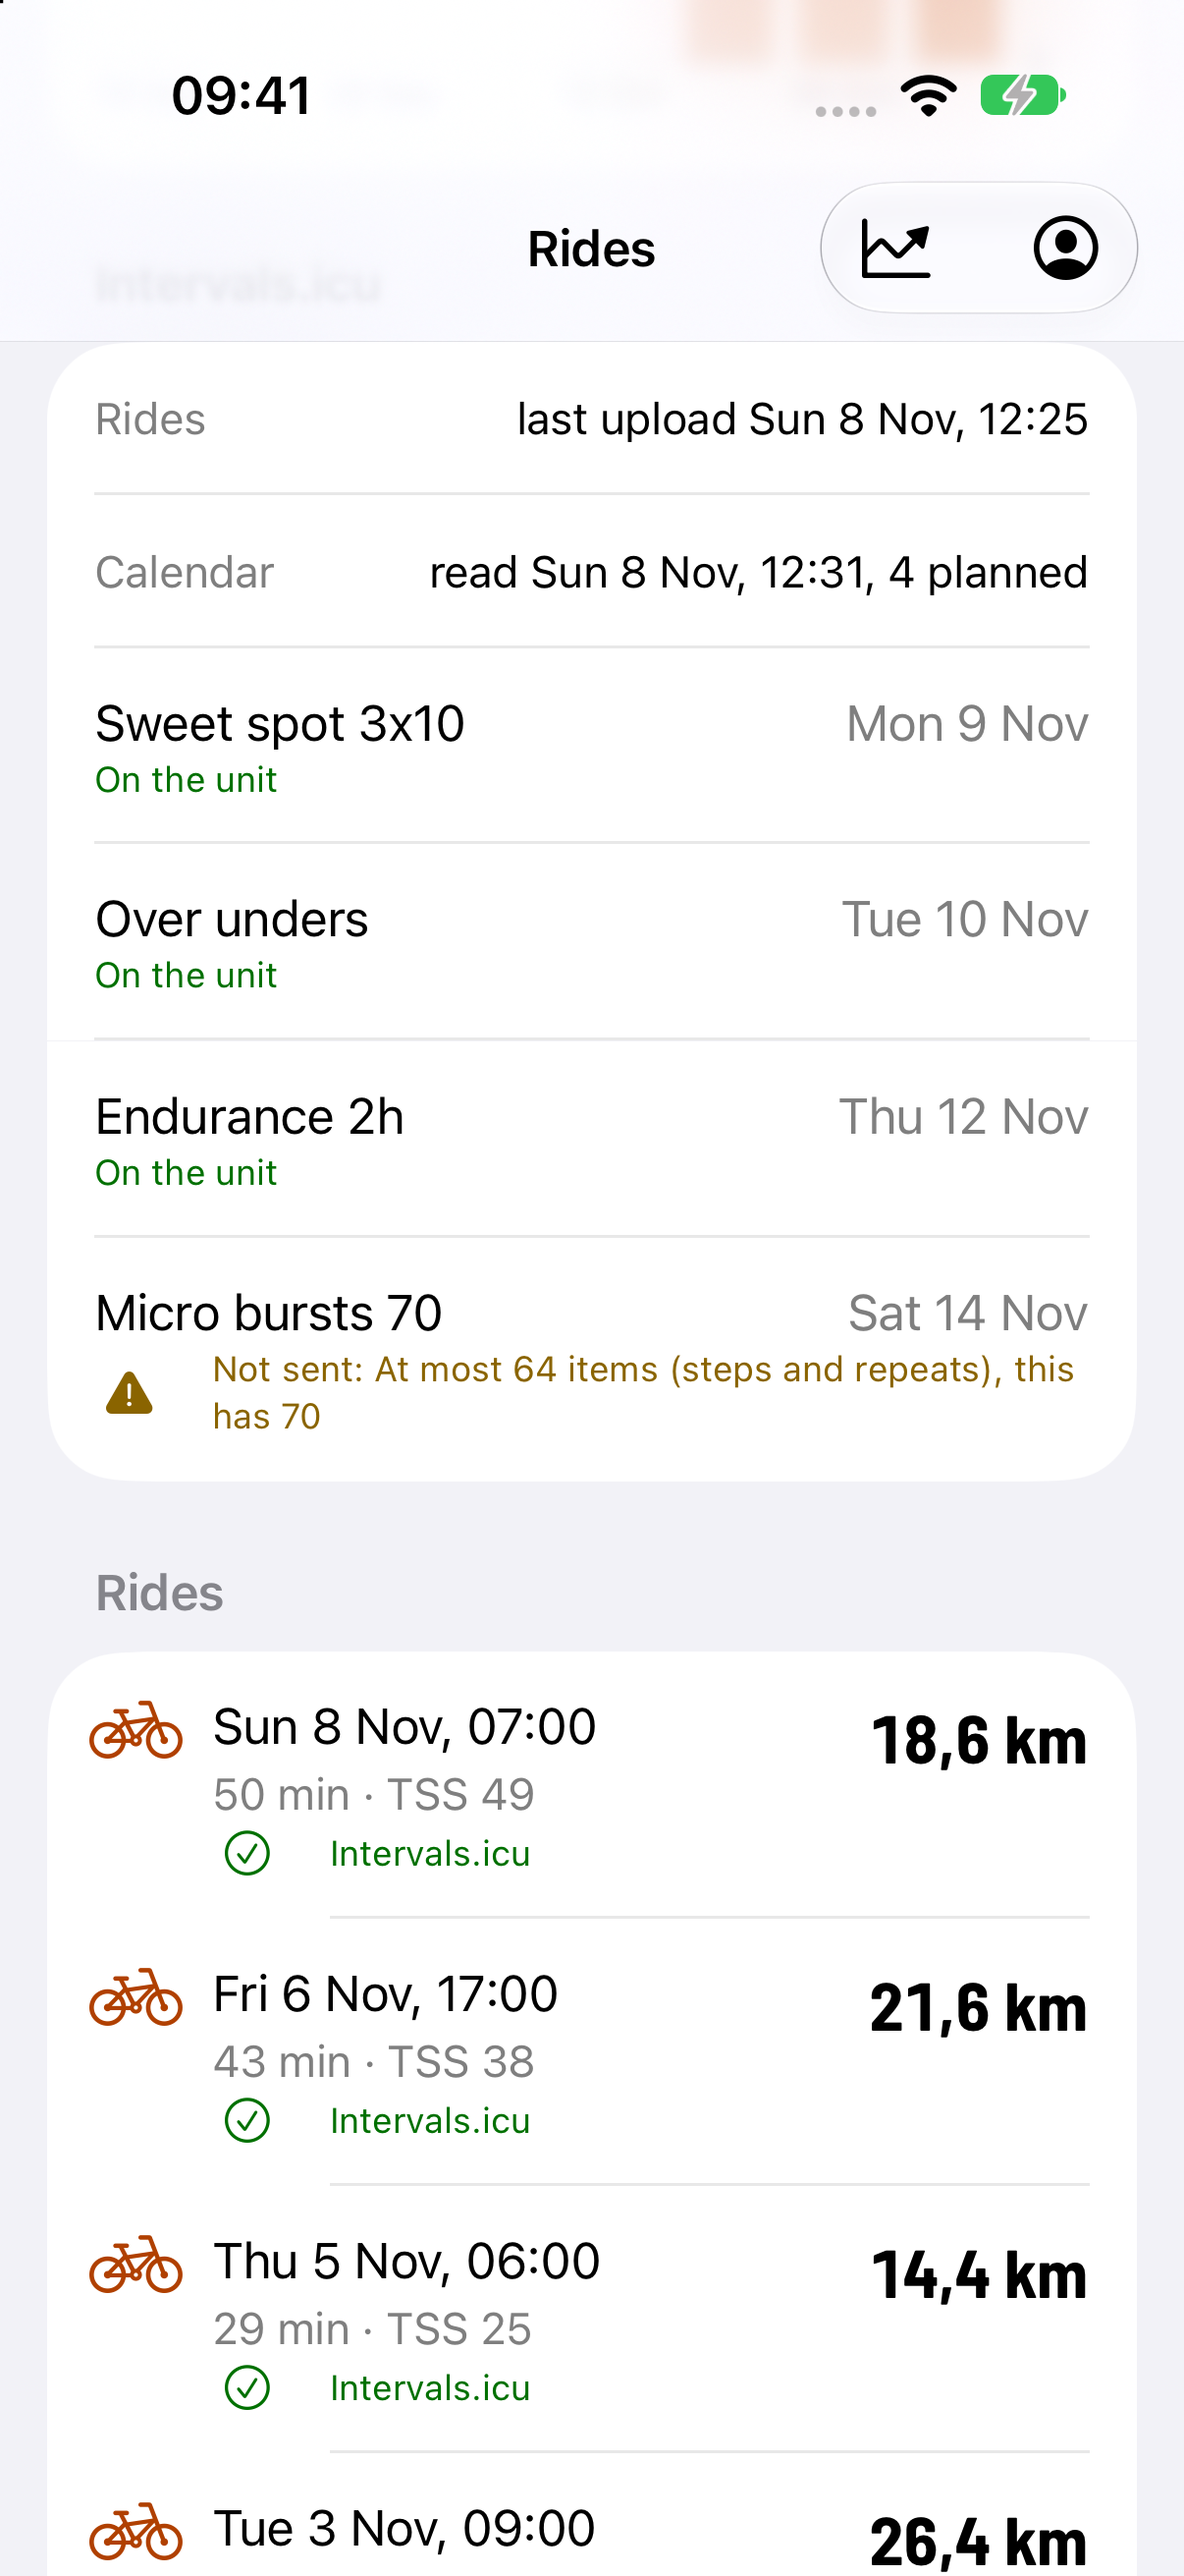
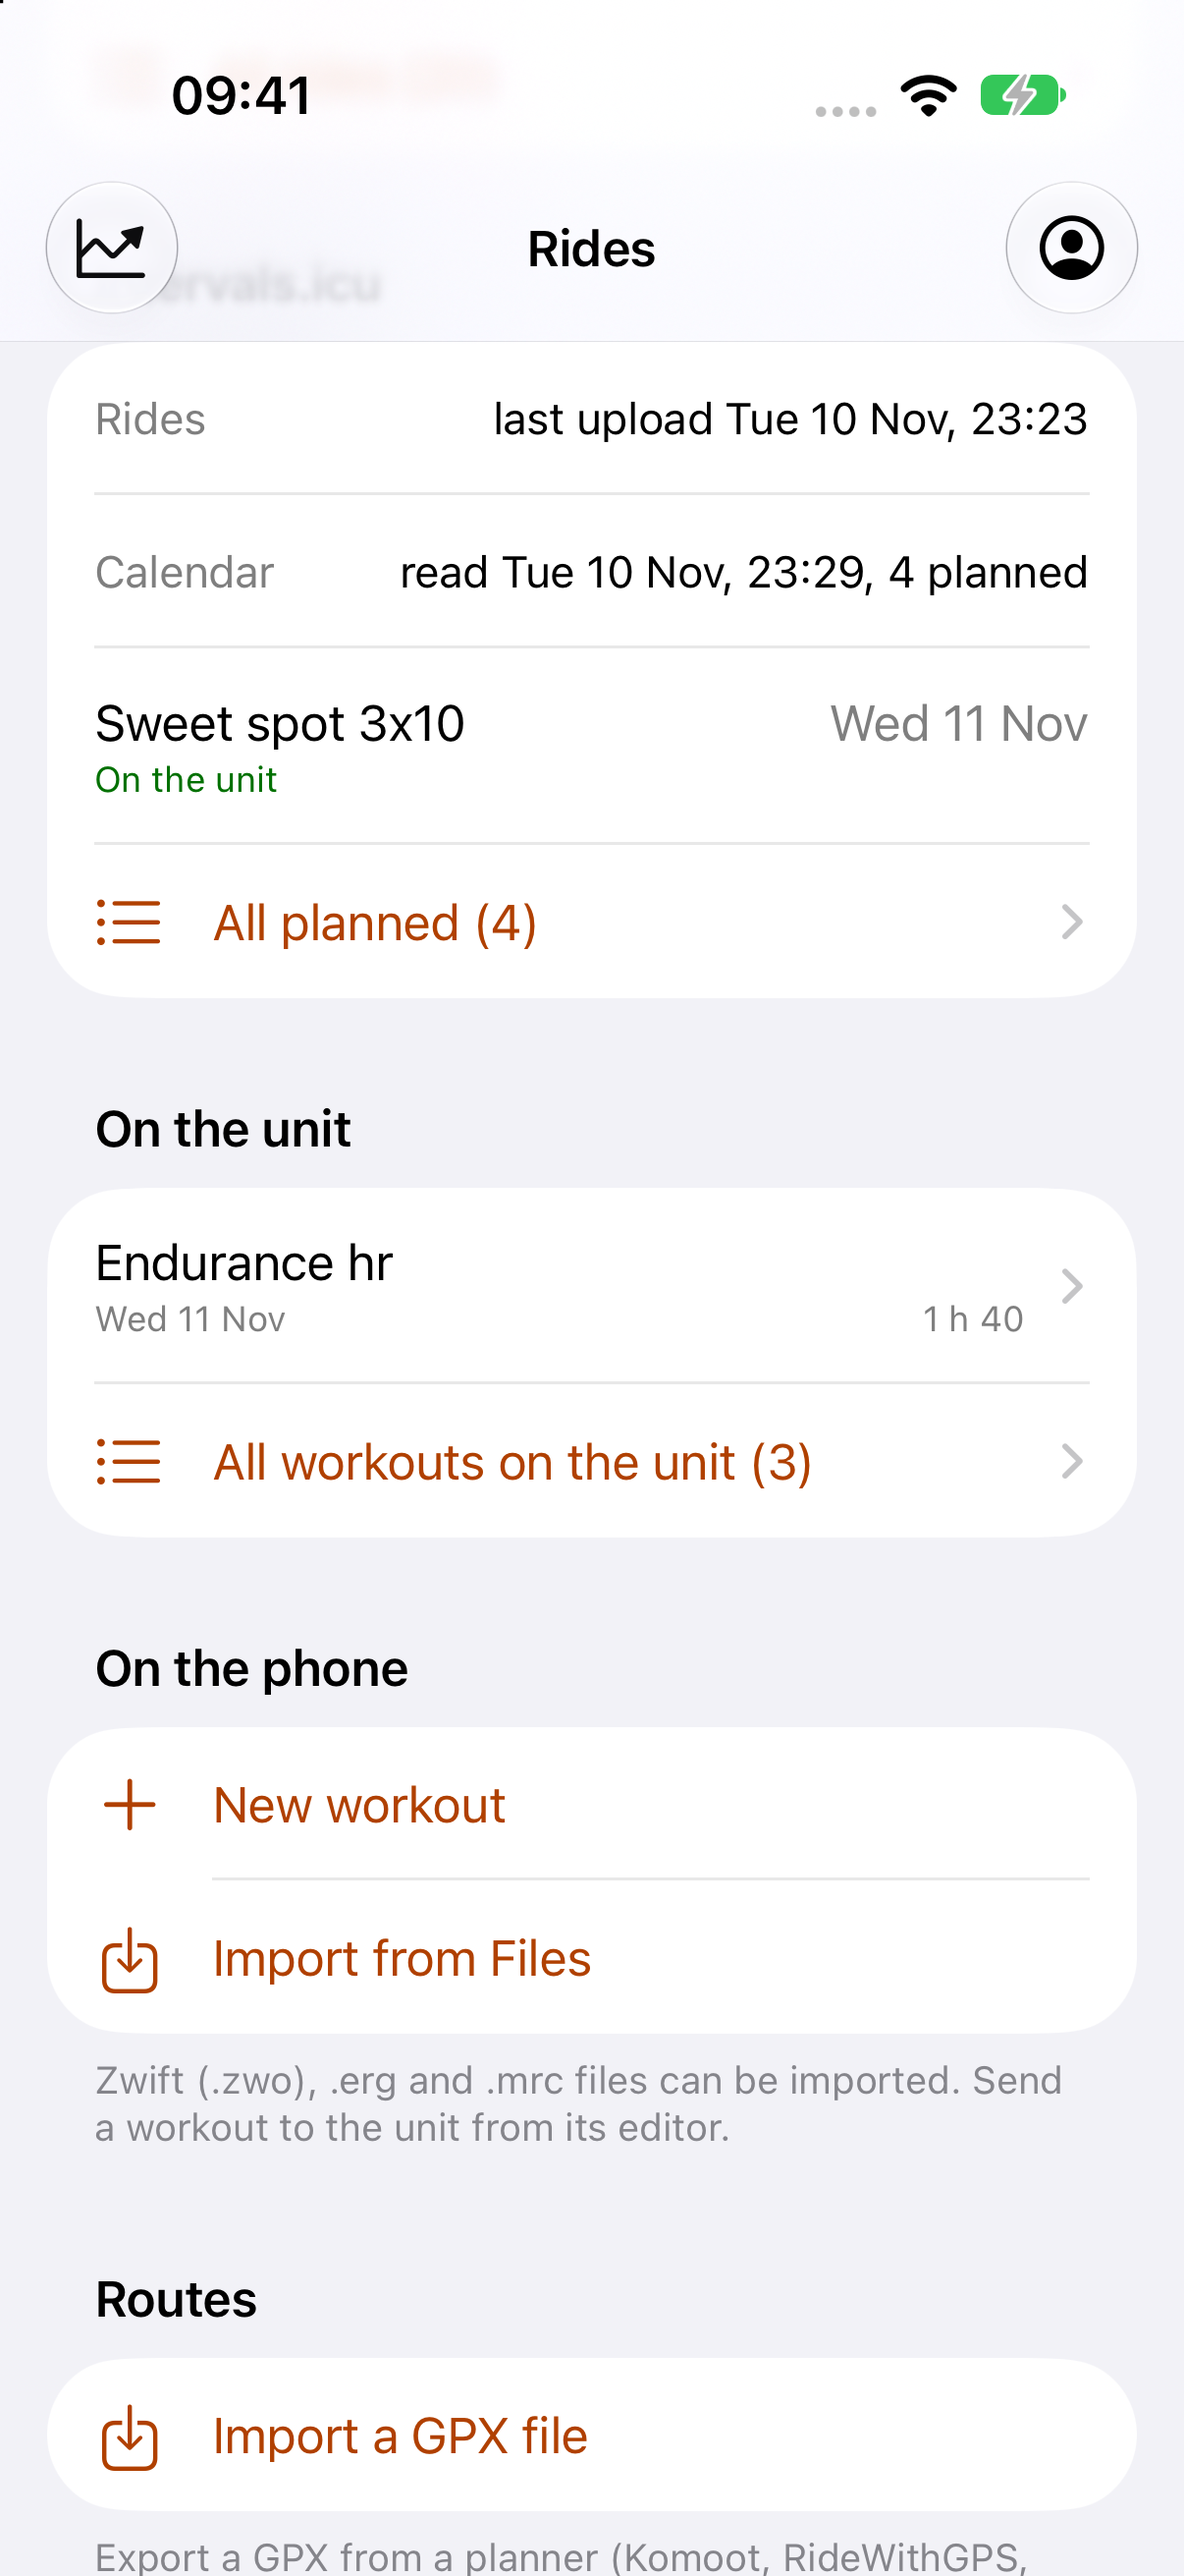
App UI: latest ride above Intervals.icu, labelled toolbar items, one section title and action row style, unit pixel glyph, step rows in the numeral face and 17 pt, gallery shots regenerated (items 9, 10, 11, 13, 14, 15, 16, 19)

diff --git a/app/ios/App/ContentView.swift b/app/ios/App/ContentView.swift
@@ -51,16 +51,17 @@ struct ContentView: View {
                 Section {
                     WeeklyPanel(library: library, missing: missing, openProfile: { profile = true }).equatable()
                 }
-                IntervalsSection(loop: loop).id("intervals")
                 if let m = rides.message ?? library.error {
                     Section { Notice(text: m) }
                 }
-                ridesSection
+                ridesSection  // the latest ride first, as Garmin Connect and Wahoo show it
+                IntervalsSection(loop: loop).id("intervals")
                 WorkoutSection(rides: rides).id("unit")
                 PhoneWorkoutSection(store: store) { editing = $0 }.id("phone")
                 RoutesSection(store: routes, rides: rides).id("routes")
                 UnitRoutesSection(store: routes, rides: rides).id("unitroutes")
             }
+            .listSectionSpacing(24)
             .onChange(of: scrollTo) { _, id in
                 if let id { withAnimation { proxy.scrollTo(id, anchor: .top) } }
             }
@@ -110,10 +111,15 @@ struct ContentView: View {
             .navigationDestination(isPresented: $fitness) { FitnessView(library: library) }
             .navigationDestination(isPresented: $allRides) { AllRidesList(rides: rides, library: library, loop: loop) }
             .toolbar {
-                Button { fitness = true } label: { Image(systemName: "chart.line.uptrend.xyaxis") }
-                    .accessibilityLabel("Fitness")
-                Button { profile = true } label: { Image(systemName: "person.crop.circle") }
-                    .accessibilityLabel("Profile")
+                // two items with their own names, not one unlabelled capsule
+                ToolbarItem(placement: .topBarLeading) {
+                    Button { fitness = true } label: { Label("Fitness", systemImage: "chart.line.uptrend.xyaxis") }
+                        .labelStyle(.titleAndIcon)
+                }
+                ToolbarItem(placement: .topBarTrailing) {
+                    Button { profile = true } label: { Image(systemName: "person.crop.circle") }
+                        .accessibilityLabel("Profile")
+                }
             }
             #if DEBUG
             .onAppear {
@@ -183,18 +189,17 @@ struct ContentView: View {
             if !rides.rides.isEmpty {
                 Button { allRides = true } label: {
                     HStack {
-                        Text("All rides (\(rides.rides.count))")
+                        ActionRow(title: "All rides (\(rides.rides.count))", icon: "list.bullet")
                         Spacer()
                         Image(systemName: "chevron.right").font(.caption.weight(.semibold)).foregroundStyle(.secondary)
                     }
                 }
-                .foregroundStyle(Tok.accent)
             }
         } header: {
             HStack {
-                Text("Rides")
+                SectionTitle("Rides")
                 Spacer()
-                if let line = rides.syncLine { Text(line).textCase(nil) }
+                if let line = rides.syncLine { Text(line).font(.footnote).textCase(nil) }
             }
         }
         .id("rides")
@@ -239,7 +244,7 @@ struct UnitHeader: View {
         VStack(alignment: .leading, spacing: 6) {
             let layout = type.isAccessibilitySize ? AnyLayout(VStackLayout(alignment: .leading, spacing: 8)) : AnyLayout(HStackLayout(spacing: 12))
             layout {
-                Image(systemName: "bicycle").font(.title2).foregroundStyle(Tok.accent).accessibilityHidden(true)
+                UnitGlyph().foregroundStyle(Tok.accent)
                 VStack(alignment: .leading, spacing: 2) {
                     Text(demo ? "Demo unit" : name.isEmpty ? "Bike computer" : name).font(.headline)
                     chip
@@ -423,6 +428,7 @@ struct EmptyRides: View {
 
     var body: some View {
         VStack(alignment: .leading, spacing: 8) {
+            UnitGlyph().foregroundStyle(.secondary)
             Text(title).font(.headline)
             Text(help).font(.subheadline).foregroundStyle(.secondary)
             if state != .searching || demo {

diff --git a/app/ios/App/WorkoutEditor.swift b/app/ios/App/WorkoutEditor.swift
@@ -99,11 +99,11 @@ struct PhoneWorkoutSection: View {
             PhoneWorkoutRows(store: store, list: Array(store.items.prefix(1)), onEdit: onEdit)
             if !store.items.isEmpty {
                 NavigationLink { AllPhoneWorkouts(store: store, onEdit: onEdit) } label: {
-                    Text("All workouts on the phone (\(store.items.count))").foregroundStyle(Tok.accent)
+                    ActionRow(title: "All workouts on the phone (\(store.items.count))", icon: "list.bullet")
                 }
             }
-            Button { onEdit(EditorTarget(draft: .blank, file: nil)) } label: { Label("New workout", systemImage: "plus") }
-            Button { importing = true } label: { Label("Import from Files", systemImage: "square.and.arrow.down") }
+            Button { onEdit(EditorTarget(draft: .blank, file: nil)) } label: { ActionRow(title: "New workout", icon: "plus") }
+            Button { importing = true } label: { ActionRow(title: "Import from Files", icon: "square.and.arrow.down") }
                 .fileImporter(isPresented: $importing, allowedContentTypes: [.data]) { r in
                     switch r {
                     case .success(let url):
@@ -131,11 +131,11 @@ struct PhoneWorkoutSection: View {
             if let problem { Notice(text: problem).font(.caption) }
         } header: {
             #if DEBUG
-            Text("On the phone").onAppear {  // Simulator screenshot: -demo-import opens the Files picker
+            SectionTitle("On the phone").onAppear {  // Simulator screenshot: -demo-import opens the Files picker
                 if demoImport { DispatchQueue.main.asyncAfter(deadline: .now() + 4) { importing = true } }
             }
             #else
-            Text("On the phone")
+            SectionTitle("On the phone")
             #endif
         } footer: {
             Text("Zwift (.zwo), .erg and .mrc files can be imported. Send a workout to the unit from its editor.")
@@ -253,9 +253,9 @@ struct WorkoutEditor: View {
                         StepChart(steps: w.steps, ftp: ftp, height: 150)
                         ZoneLegend(ftp: ftp)
                         HStack {
-                            Text(Fmt.duration(UInt64(w.totalS)))
+                            Text(Fmt.duration(UInt64(w.totalS))).numeral(.subheadline)
                             Spacer()
-                            if w.tss > 0 { Text(Fmt.ifTss(w.intensityX100, w.tss)) }
+                            if w.tss > 0 { Text(Fmt.ifTss(w.intensityX100, w.tss)).numeral(.subheadline) }
                         }
                     case .failure(let e):
                         Notice(text: message(e))
@@ -339,11 +339,11 @@ private struct StepSummary: View {
         } else {
             HStack {
                 VStack(alignment: .leading, spacing: 2) {
-                    Text(length(step))
-                    Text(targetText(step)).font(.caption).foregroundStyle(.secondary)
+                    Text(length(step)).numeral(.subheadline)
+                    Text(targetText(step)).font(.subheadline).foregroundStyle(.secondary)
                 }
                 Spacer()
-                Text(intensityNames[min(Int(step.intensity), 6)]).font(.caption).foregroundStyle(.secondary)
+                Text(intensityNames[min(Int(step.intensity), 6)]).font(.subheadline).foregroundStyle(.secondary)
             }
         }
     }

diff --git a/app/ios/App/WorkoutViews.swift b/app/ios/App/WorkoutViews.swift
@@ -34,11 +34,11 @@ struct WorkoutSection: View {
     private var next: [WorkoutFile] { nextWorkout(rides.workouts, day: { Int($0.key.prefix(8)) ?? 0 }).map { [$0] } ?? [] }
 
     var body: some View {
-        Section("On the unit") {
+        Section(header: SectionTitle("On the unit")) {
             WorkoutRows(rides: rides, list: next)
             if !rides.workouts.isEmpty {
                 NavigationLink { AllWorkoutsList(rides: rides) } label: {
-                    Text("All workouts on the unit (\(rides.workouts.count))").foregroundStyle(Tok.accent)
+                    ActionRow(title: "All workouts on the unit (\(rides.workouts.count))", icon: "list.bullet")
                 }
             }
             if rides.workouts.isEmpty {
@@ -130,9 +130,9 @@ struct WorkoutDetail: View {
                     StepChart(steps: w.steps, ftp: ftp)
                     ZoneLegend(ftp: ftp)
                     HStack {
-                        Text(Fmt.duration(UInt64(w.totalS)))
+                        Text(Fmt.duration(UInt64(w.totalS))).numeral(.subheadline)
                         Spacer()
-                        if w.tss > 0 { Text(Fmt.ifTss(w.intensityX100, w.tss)) }
+                        if w.tss > 0 { Text(Fmt.ifTss(w.intensityX100, w.tss)).numeral(.subheadline) }
                     }
                     if w.cut { Notice(text: "Longer than the unit keeps: the end is cut.").font(.caption) }
                     Button { showProfile = true } label: {
@@ -259,12 +259,12 @@ struct StepRow: View {
         HStack {
             Text("\(index)").numeral(.subheadline).foregroundStyle(.secondary).frame(minWidth: 28, alignment: .leading)
             VStack(alignment: .leading, spacing: 2) {
-                Text(length)
-                Text(target).font(.caption).foregroundStyle(.secondary)
+                Text(length).numeral(.subheadline)
+                Text(target).font(.subheadline).foregroundStyle(.secondary)
             }
             Spacer()
             if step.kind == .power { Circle().fill(zoneColor(step.powerZone)).frame(width: dot, height: dot) }
-            Text(intensity).font(.caption).foregroundStyle(.secondary)
+            Text(intensity).font(.subheadline).foregroundStyle(.secondary)
         }
     }
 

diff --git a/app/ios/App/RouteViews.swift b/app/ios/App/RouteViews.swift
@@ -33,14 +33,14 @@ struct RoutesSection: View {
                 .swipeActions { Button("Delete", role: .destructive) { store.delete(r) } }
                 .contextMenu { Button("Delete from the phone", systemImage: "trash", role: .destructive) { store.delete(r) } }
             }
-            Button { importing = true } label: { Label("Import a GPX file", systemImage: "square.and.arrow.down") }
+            Button { importing = true } label: { ActionRow(title: "Import a GPX file", icon: "square.and.arrow.down") }
                 .fileImporter(isPresented: $importing, allowedContentTypes: [.data]) { r in
                     if case .success(let url) = r { store.importGpx(url) }  // stays on the list: the row appears
                 }
             if store.importing { HStack { ProgressView(); Text("Reading the file…").foregroundStyle(.secondary) } }
             if let p = store.problem { Notice(text: p, level: .alarm) }
         } header: {
-            Text("Routes")
+            SectionTitle("Routes")
         } footer: {
             if store.items.isEmpty {
                 Text("Export a GPX from a planner (Komoot, RideWithGPS, BRouter...), or open one in this app from Files.")
@@ -58,7 +58,7 @@ struct UnitRoutesSection: View {
     @State private var newName = ""
 
     var body: some View {
-        Section("Routes on the unit") {
+        Section(header: SectionTitle("Routes on the unit")) {
             ForEach(rides.unitRoutes) { u in
                 let l = store.label(u)
                 HStack {

diff --git a/app/ios/App/IntervalsViews.swift b/app/ios/App/IntervalsViews.swift
@@ -10,7 +10,7 @@ struct IntervalsSection: View {
 
     var body: some View {
         if intervals.hasKey {
-            Section("Intervals.icu") {
+            Section(header: SectionTitle("Intervals.icu")) {
                 row("Rides", loop.uploading ? "Uploading…" : upload)
                 if let e = loop.uploadError { Notice(text: e).font(.footnote) }
                 row("Calendar", calendar)
@@ -18,7 +18,7 @@ struct IntervalsSection: View {
                 if let next = nextWorkout(loop.planned, day: { Int($0.day) ?? 0 }) { PlannedRows(list: [next]) }
                 if !loop.planned.isEmpty {
                     NavigationLink { AllPlanned(loop: loop) } label: {
-                        Text("All planned (\(loop.planned.count))").foregroundStyle(Tok.accent)
+                        ActionRow(title: "All planned (\(loop.planned.count))", icon: "list.bullet")
                     }
                 }
             }

diff --git a/app/ios/App/Theme.swift b/app/ios/App/Theme.swift
@@ -110,7 +110,7 @@ struct SectionTitle: View {
     let text: String
     init(_ text: String) { self.text = text }
 
-    var body: some View { Text(text).font(.headline).foregroundStyle(.primary).textCase(nil) }
+    var body: some View { Text(text).font(.headline).foregroundColor(Color(.label)).textCase(nil) }
 }
 
 /// A list row that acts (an "All ..." row, New, Import): the icon column is the same on every one, so the text lines up.
